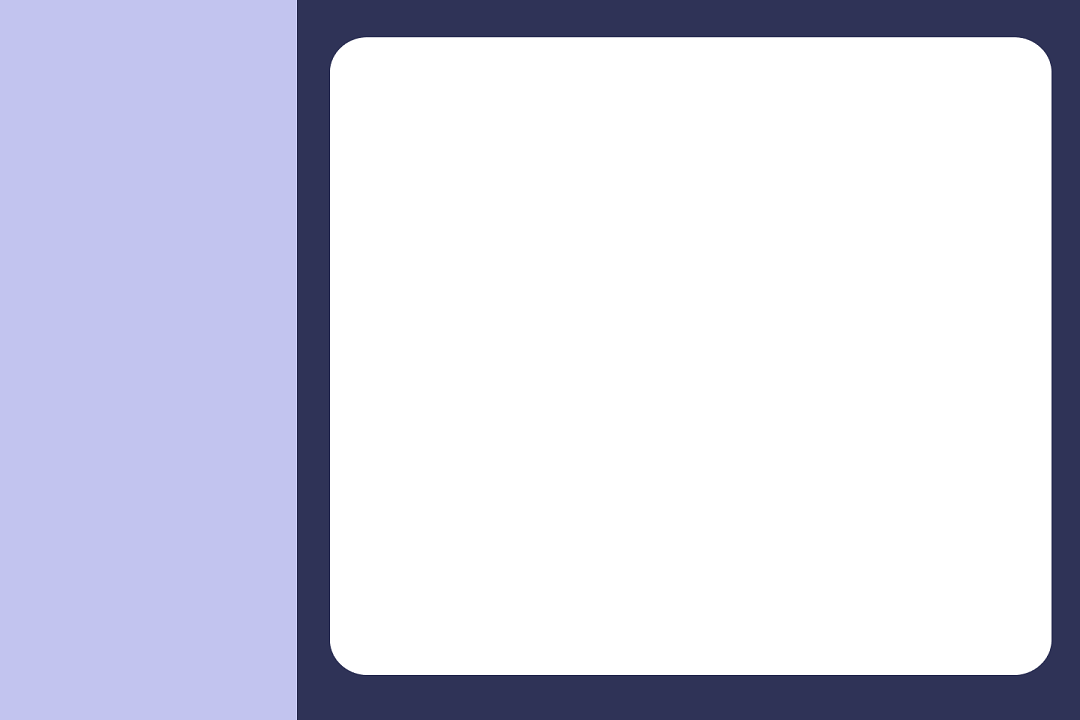
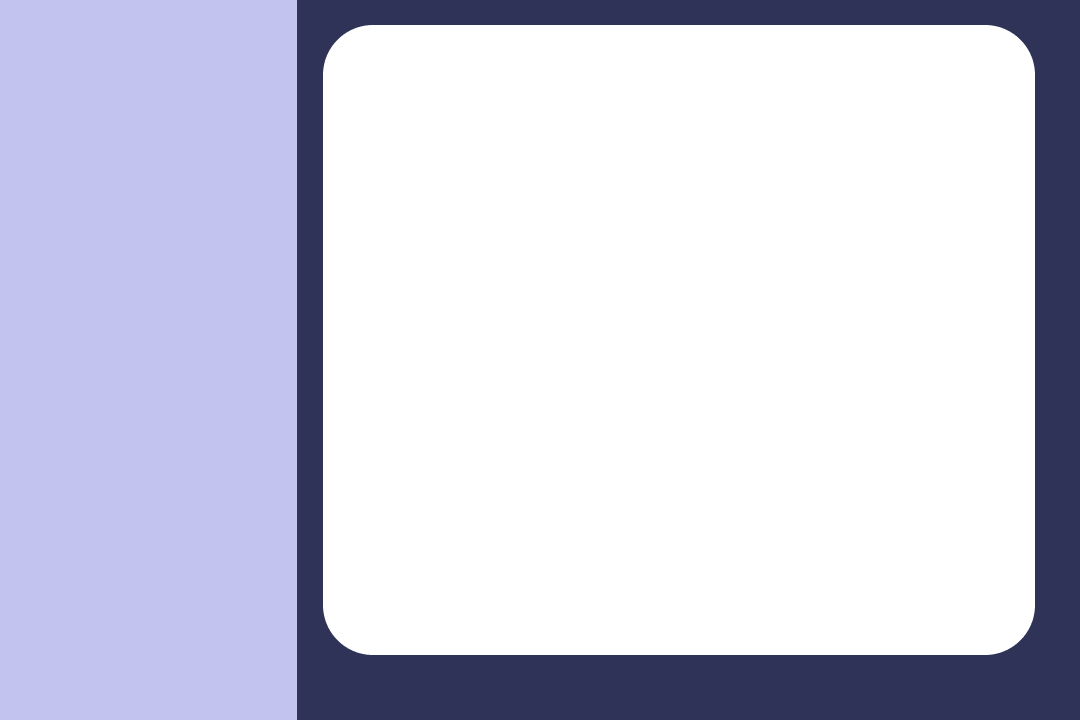
[add] : 상점기능 추가
- 종류별 다른 아이템 보여주기 (재료,테마)
- 재료
   1) 이미 구매한 것은 재구매 불가
   2) 단계별로 구매 가능
- 테마
   1) 이미 구매한 것은 재구매 가능

Changed region(s): [[0.3056, 0.0611, 0.9778, 0.9472], [0.275, 0.0917, 0.3056, 0.8556], [0.3056, 0.0306, 0.9472, 0.0917]]

diff --git a/src/main/java/org/example/Store.java b/src/main/java/org/example/Store.java
@@ -4,16 +4,22 @@ import javax.swing.*;
 import java.awt.*;
 import java.awt.event.ActionEvent;
 import java.awt.event.ActionListener;
+import java.io.BufferedReader;
+import java.io.FileReader;
+import java.io.IOException;
+import java.util.ArrayList;
 
 class Item {
     private String name;
     private ImageIcon image;
     private int price;
+    private int index;
 
-    public Item(String name, String imagePath, int price) {
+    public Item(String name, String imagePath, int price, int index) {
         this.name = name;
         this.image = new ImageIcon(imagePath);
         this.price = price;
+        this.index = index;
     }
 
     public String getName() {
@@ -27,6 +33,9 @@ class Item {
     public int getPrice() {
         return price;
     }
+    public int getIndex() {
+        return index;
+    }
 }
 
 public class Store extends Frame {
@@ -34,24 +43,34 @@ public class Store extends Frame {
     private JPanel itemsPanel;
     private int currentPage;
     private int itemsPerPage = 3;
-
+    private int items_turn = 0;
+    int toPingpart = 0;
+    int temaPart = -1;
     public Store() {
 
-        Item[] items = {
-                new Item("물약", "potion.png", 10),
-                new Item("갑옷", "armor.png", 50),
-                new Item("검", "sword.png", 30),
-                new Item("물약1", "potion.png", 12),
-                new Item("갑옷1", "armor.png", 53),
-                new Item("검1", "sword.png", 33),
-                new Item("갑옷1", "armor.png", 53),
-                new Item("검2", "sword.png", 33),
-                new Item("갑옷2", "armor.png", 53),
-                new Item("검2", "sword.png", 33),
-                new Item("검2", "sword.png", 33),
-                new Item("방패1", "shield.png", 55) // Fixed the image for the last item
+        Item[][] items1 = {{
+                new Item("계란", "potion.png", 10,0),
+                new Item("연어", "armor.png", 50,1),
+                new Item("참치", "sword.png", 30,2),
+                new Item("광어", "potion.png", 12,3),
+                new Item("고등어", "armor.png", 53,4),
+                new Item("마끼", "sword.png", 33,5)
                 // Add more items
-        };
+        },{
+                new Item("코스튬1", "potion.png", 10,0),
+                new Item("코스튬2", "armor.png", 50,1),
+                new Item("코스튬3", "sword.png", 30,2),
+                new Item("코스튬4", "potion.png", 12,3),
+                new Item("코스튬5", "armor.png", 53,4),
+                new Item("코스튬6", "sword.png", 33,5),
+                new Item("코스튬7", "armor.png", 53,6),
+                new Item("코스튬8", "sword.png", 33,7),
+                new Item("코스튬9", "armor.png", 53,8),
+                new Item("코스튬10", "sword.png", 33,9),
+                new Item("코스튬11", "sword.png", 33,10),
+                new Item("코스튬12", "shield.png", 55,11) // Fixed the image for the last item
+                // Add more items
+        }};
 
         background = new JLabel(new ImageIcon(Main.class.getResource(Frame.LINK+"Store_/상점store.png")));
         background.setBounds(0, 0, WIDTH, HEIGHT);
@@ -64,41 +83,66 @@ public class Store extends Frame {
         leftPanel.setPreferredSize(new Dimension(297, 300));
         JLabel leftLabel = new JLabel("왼쪽 라벨");
         leftLabel.setOpaque(true);
-        leftLabel.setBackground(new Color(255, 0, 0, 20));
+        leftLabel.setBackground(new Color(0, 0, 0, 0));
+
+        JButton items1Btn = new JButton(new ImageIcon(Main.class.getResource(Frame.LINK + "Store_/토핑BTN.png")));
+        items1Btn.setBounds(30,30,222, 90);
+        items1Btn.addActionListener(new ActionListener() {
+            @Override
+            public void actionPerformed(ActionEvent e) {
+                items_turn = 0;
+                currentPage = 0;
+                nextPage(items1[items_turn]);
+            }
+        });
+
+        JButton items2Btn = new JButton(new ImageIcon(Main.class.getResource(Frame.LINK + "Store_/테마BTN.png")));
+        items2Btn.setBounds(30,140,222, 90);
+        items2Btn.addActionListener(new ActionListener() {
+            @Override
+            public void actionPerformed(ActionEvent e) {
+                items_turn = 1;
+                currentPage = 0;
+                nextPage(items1[items_turn]);
+            }
+        });
+
         leftPanel.add(leftLabel, BorderLayout.CENTER);
+        leftLabel.add(items1Btn);
+        leftLabel.add(items2Btn);
         background.add(leftPanel, BorderLayout.CENTER);
 
         // Right panel (size ratio 8)
         JPanel rightPanel = new JPanel(new BorderLayout());
-        rightPanel.setBackground(new Color(255, 0, 0, 50));
+        rightPanel.setBackground(new Color(0, 0, 0, 0));
         rightPanel.setBorder(BorderFactory.createEmptyBorder(40, 0, 0, 0));
 
         // Right top label (green background)
         JPanel topRightLabel = new JPanel(new FlowLayout(FlowLayout.CENTER, 80, FlowLayout.TRAILING));
         topRightLabel.setOpaque(true);
-        topRightLabel.setBackground(new Color(255, 0, 50, 50));
+        topRightLabel.setBackground(new Color(0, 0, 0, 0));
         rightPanel.add(topRightLabel, BorderLayout.NORTH);
         background.add(rightPanel, BorderLayout.EAST);
 
         currentPage = 0; // Initialize currentPage to 0
 
         itemsPanel = new JPanel(new FlowLayout(FlowLayout.CENTER, 10, 10));
-        itemsPanel.setBackground(new Color(255, 0, 0, 0));
+        itemsPanel.setBackground(new Color(0, 0, 0, 0));
 
-        for (int i = 0; i < itemsPerPage && i < items.length; i++) {
-            itemsPanel.add(createItemPanel(items[i]));
+        for (int i = 0; i < itemsPerPage && i < items1.length; i++) {
+            itemsPanel.add(createItemPanel(items1[items_turn][i]));
         }
 
         JScrollPane scrollPane = new JScrollPane(itemsPanel);
-        scrollPane.setBackground(new Color(255, 0, 0, 0));
+        scrollPane.setBackground(new Color(0, 0, 0, 0));
 
         // Uncomment the nextButton-related code
         JButton nextButton = new JButton("다음 페이지");
-        nextButton.setBounds(710, 210, 30, 30);  // Set the bounds with specific coordinates and size
+        nextButton.setBounds(700, 210, 30, 30);  // Set the bounds with specific coordinates and size
         nextButton.addActionListener(new ActionListener() {
             @Override
             public void actionPerformed(ActionEvent e) {
-                nextPage(items);
+                    nextPage(items1[items_turn]);
             }
         });
 
@@ -107,6 +151,7 @@ public class Store extends Frame {
         rightPanel.add(Bottom, FlowLayout.LEFT);
         topRightLabel.add(scrollPane, BorderLayout.CENTER);
 
+        nextPage(items1[items_turn]);
 
     }
 
@@ -139,11 +184,29 @@ public class Store extends Frame {
         JLabel nameLabel = new JLabel("이름: " + item.getName());
         JLabel priceLabel = new JLabel("가격: " + item.getPrice());
         JButton buyButton = new JButton("구매하기");
-        buyButton.setPreferredSize(new Dimension(783 / 4, 600 / 2));
+        buyButton.setPreferredSize(new Dimension(195, 300));
         buyButton.addActionListener(new ActionListener() {
             @Override
             public void actionPerformed(ActionEvent e) {
-                JOptionPane.showMessageDialog(null, "구매 완료: " + item.getName());
+                if (items_turn == 0){
+                    if(toPingpart == item.getIndex()){
+                    JOptionPane.showMessageDialog(null, "구매 완료: " + item.getName());
+                        toPingpart = toPingpart + 1;
+                    } else if(toPingpart > item.getIndex()){
+                        JOptionPane.showMessageDialog(null, "이미 구매하신 아이템 입니다.");
+                    }else {
+                        JOptionPane.showMessageDialog(null, "먼저 이전 아이템을 구매하세요.");
+                    }
+                } else if (items_turn == 1){
+                    if(temaPart != item.getIndex()){
+                        JOptionPane.showMessageDialog(null, "일회용입니다. 주의하세요.\n구매 완료: " + item.getName());
+                        temaPart = item.getIndex();
+                    } else {
+                        JOptionPane.showMessageDialog(null, "이미 구매하신 아이템 입니다.");
+                    }
+                }else {
+                    JOptionPane.showMessageDialog(null, "구매 완료: " + item.getName());
+                }
             }
         });
 
